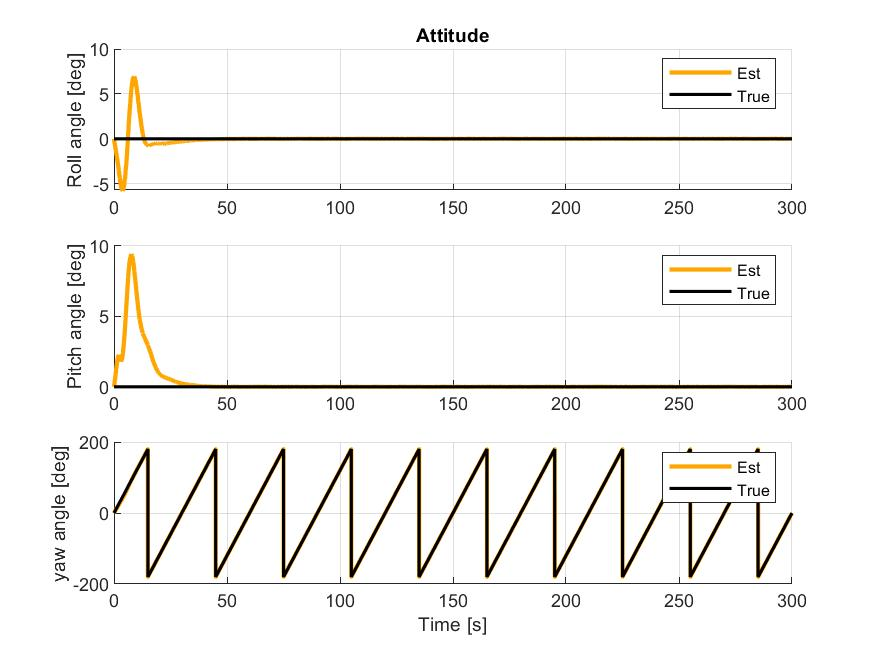
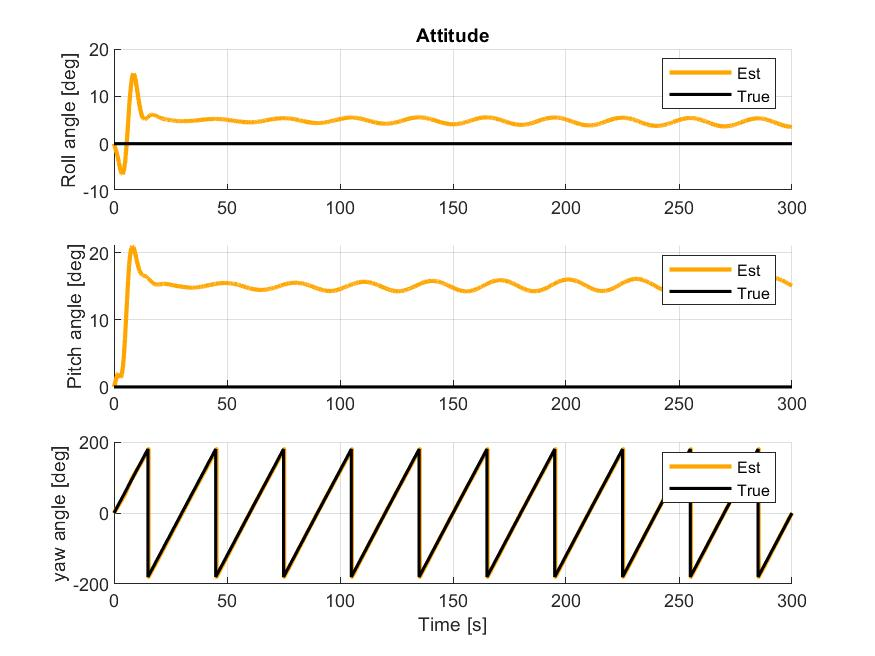
Tried to remove gravity as state from the eskf, but rank is only 14 and not 15. Hence the entire system still is not observable. Need more excitation

diff --git a/ESKF/ErrorStateKalman_sola.m b/ESKF/ErrorStateKalman_sola.m
@@ -1,4 +1,4 @@
-function [delta_x, E] = ErrorStateKalman2(E_prev,delta_y, R_nb, f_low, init, f_b_imu, omega_b_imu, g_n_nb, bacc_b_ins, bars_b_ins)
+function [delta_x, E] = ErrorStateKalman_sola(r_b_1, r_b_2,E_prev,delta_y, R_nb_hat, f_low, init, f_b_imu, omega_b_imu, g_n_nb, bacc_b_ins, bars_b_ins)
     
     deg2rad = pi/180;   
     
@@ -13,7 +13,7 @@ function [delta_x, E] = ErrorStateKalman2(E_prev,delta_y, R_nb, f_low, init, f_b
         R_pos = std_pos^2*I3;
         std_att = 10 * deg2rad;
         R_att = std_att^2*I3;
-        R = blkdiag(R_pos, R_att);
+        R = blkdiag(R_pos, R_pos);
 
         std_acc = 0.01 * sqrt(10);
         Q_acc = std_acc * std_acc * I3; 
@@ -36,51 +36,66 @@ function [delta_x, E] = ErrorStateKalman2(E_prev,delta_y, R_nb, f_low, init, f_b
 %                        1e-10 1e-10 1e-10 ...
 %                        1e-6 1e-6 1e-6]); 
                    
-       P_hat = diag([1e-1 * ones(1, 3) 1e-2 * ones(1, 3) 5e-2 * ones(1, 3) 1e-10 * ones(1, 3) 1e-6 * ones(1, 3) 1e-10 * ones(1, 3)]);  % Initial error covariance
+       P_hat = diag([1e-1 * ones(1, 3) 1e-2 * ones(1, 3) 5e-2 * ones(1, 3) 1e-10 * ones(1, 3) 1e-6 * ones(1, 3)]);  % Initial error covariance
 
        delta_x = 0;
 %        delta_q = 0;
        
     else
+%             
+%           A = [  Z3    I3        Z3                                   Z3       Z3    Z3    % dp
+%                  Z3    Z3     -R_nb    -R_nb*Smtrx(f_b_imu - bacc_b_ins)       Z3    I3    % dv
+%                  Z3    Z3        Z3                                   Z3       Z3    Z3    % dbacc
+%                  Z3    Z3        Z3      -Smtrx(omega_b_imu - bars_b_ins)     -I3    Z3    % dtheta ???????
+%                  Z3    Z3        Z3                                   Z3       Z3    Z3    % dbars
+%                  Z3    Z3        Z3                                   Z3       Z3    Z3] ; % dg
             
-          A = [  Z3    I3        Z3                                   Z3       Z3    Z3    % dp
-                 Z3    Z3     -R_nb    -R_nb*Smtrx(f_b_imu - bacc_b_ins)       Z3    I3    % dv
-                 Z3    Z3        Z3                                   Z3       Z3    Z3    % dbacc
-                 Z3    Z3        Z3      -Smtrx(omega_b_imu - bars_b_ins)     -I3    Z3    % dtheta ???????
-                 Z3    Z3        Z3                                   Z3       Z3    Z3    % dbars
-                 Z3    Z3        Z3                                   Z3       Z3    Z3] ; % dg
+          A = [  Z3    I3        Z3                                           Z3       Z3   % dp
+                 Z3    Z3     -R_nb_hat    -R_nb_hat*Smtrx(f_b_imu - bacc_b_ins)       Z3   % dv
+                 Z3    Z3        Z3                                           Z3       Z3   % dbacc
+                 Z3    Z3        Z3             -Smtrx(omega_b_imu - bars_b_ins)      -I3   % dtheta ???????
+                 Z3    Z3        Z3                                           Z3       Z3];   % dbars
+%                  Z3    Z3        Z3                                           Z3       Z3]; % dg
+             
             
  
           E = [      Z3      Z3    Z3   Z3
-                  -R_nb      Z3    Z3   Z3    % w_acc
+                  -R_nb_hat      Z3    Z3   Z3    % w_acc
                      Z3      I3    Z3   Z3    % w_acc_bias
                      Z3      Z3   -I3   Z3    % w_ars
-                     Z3      Z3    Z3   I3    % w_ars_bias
-                     Z3      Z3    Z3   Z3 ]; 
+                     Z3      Z3    Z3   I3];    % w_ars_bias
+%                      Z3      Z3    Z3   Z3 ]; 
 
           
           H = [ I3 Z3 Z3 Z3 Z3 Z3
-                Z3 Z3 Z3 I3 Z3 Z3];
+                I3 Z3 Z3 I3 Z3 Z3];
+            
+          H = [ I3 Z3 Z3 -Smtrx(R_nb_hat*r_b_1) Z3
+                I3 Z3 Z3 -Smtrx(R_nb_hat*r_b_2) Z3];
+               
+           
+         rank(obsv(A(1:15,1:15),H(:,1:15)))
+         
           
           % Discrete-time model
-          Ad = eye(18) + h * A;
+         Ad = eye(15) + h * A;
         
          % KF gain
          K = P_hat * H' / (H * P_hat * H' + R);
 
          % corrector 
          delta_x = K * delta_y;
-         P_hat = (eye(18)-K*H) * P_hat * (eye(18) - K*H)' + K*R*K';
+         P_hat = (eye(15)-K*H) * P_hat * (eye(15) - K*H)' + K*R*K';
          P_hat = (P_hat + P_hat')/2;
         
          % ESKF reset
          delta_theta = delta_x(10:12);
-         G = [ I3 Z3 Z3                            Z3 Z3 Z3 
-               Z3 I3 Z3                            Z3 Z3 Z3 
-               Z3 Z3 I3                            Z3 Z3 Z3 
-               Z3 Z3 Z3 (I3 - Smtrx(0.5*delta_theta)) Z3 Z3 
-               Z3 Z3 Z3                            Z3 I3 Z3 
-               Z3 Z3 Z3                            Z3 Z3 I3];
+         G = [ I3 Z3 Z3                            Z3 Z3 
+               Z3 I3 Z3                            Z3 Z3 
+               Z3 Z3 I3                            Z3 Z3 
+               Z3 Z3 Z3 (I3 - Smtrx(0.5*delta_theta)) Z3 
+               Z3 Z3 Z3                            Z3 I3]; 
+%                Z3 Z3 Z3                            Z3 Z3];
            
          P_hat = G * P_hat * G';
         

diff --git a/ESKF/MESKF_sola.m b/ESKF/MESKF_sola.m
@@ -40,13 +40,17 @@ g_err_data = zeros(3,N);
 [seed, p_n_nb, v_n_nb, q_nb, bacc_b_nb, bars_b_nb, f_b_imu, omega_b_imu,time, g_n_nb, v_abs] = CircleSim(simtime,f_samp,0);
 % [p_n_nb, v_n_nb, att_n_nb, f_b_imu, w_b_imu,time] = StandStillSim(simtime,f_samp,0);
 
+% dual gnss config
+r_b_1 = [0.5 0 0]';
+r_b_2 = [-0.5 0 0.3]';
+
 %initialization of kalman filter
 f_b_imu_0 = [0 0 0]';
 omega_b_imu_0 = [0 0 0]';
 bacc_b_ins = [0 0 0]';
 bars_b_ins = [0 0 0]';
-E_prev = zeros(18,12);
-ErrorStateKalman_sola(E_prev,0, 0, f_low, 1, f_b_imu_0, omega_b_imu_0, g_n_nb, bacc_b_ins, bars_b_ins);
+E_prev = zeros(15,12);
+ErrorStateKalman_sola(r_b_1, r_b_2, E_prev,0, 0, f_low, 1, f_b_imu_0, omega_b_imu_0, g_n_nb, bacc_b_ins, bars_b_ins);
 
 % init
 x_ins(1:3) = [5;6;7]; % for testing av ESKF
@@ -110,24 +114,49 @@ for k = 1:N
         % noisy measurements
         p_meas = p_n_nb(1:3,k) +  0.001 * wgn(3, 1, 1);
         q_meas = q_nb(1:4,k) + 0.00005 * wgn(4, 1, 1);
-
-        % delta y
-        delta_p = p_meas - p_n_ins; 
-
+        
         q_conj = quatconj(q_n_ins')';
         delta_q = quatprod(q_conj, q_meas);
         delta_theta = 2*delta_q(2:4);
         
-        delta_y = [delta_p; delta_theta];         
+        p_gnss_1 = p_n_nb(1:3,k) + I3*R_nb_ins*r_b_1 - Smtrx(R_nb_ins*r_b_1)*delta_theta;
+        p_gnss_2 = p_n_nb(1:3,k) + I3*R_nb_ins*r_b_2 - Smtrx(R_nb_ins*r_b_2)*delta_theta;
         
+        R_nb_t = Rquat(q_nb(1:4,k)');
+        
+        p_gnss_1 = p_n_nb(1:3,k) + R_nb_t * r_b_1;
+        p_gnss_2 = p_n_nb(1:3,k) + R_nb_t * r_b_2;
+%         p_gnss_3 = p_n_nb(1:3,k) + R_nb_t * r_b_3;
+        
+        
+        p_hat_1 = p_n_ins + R_nb_ins * r_b_1;
+        p_hat_2 = p_n_ins + R_nb_ins * r_b_2;
+%         p_hat_3 = p_n_ins + R_nb_ins * r_b_3;
+        
+        
+%         delta_y = [(p_gnss_1 - p_hat_1) ; (p_gnss_2 - p_hat_2); (p_gnss_3 - p_hat_3); delta_theta]; 
+        delta_y = [(p_gnss_1 - p_hat_1) ; (p_gnss_2 - p_hat_2)];
         % compute error state with ESKF
-        [delta_x, E_prev] = ErrorStateKalman_sola(E_prev, delta_y, R_nb_ins, f_low, 0, f_b_imu, omega_b_imu, g_n_nb, bacc_b_ins, bars_b_ins);
-        
+        [delta_x, E_prev] = ErrorStateKalman_sola(r_b_1, r_b_2, E_prev, delta_y, R_nb_ins, f_low, 0, f_b_imu, omega_b_imu, g_n_nb, bacc_b_ins, bars_b_ins);
+
+% 
+%         % delta y
+%         delta_p = p_meas - p_n_ins; 
+% 
+%         q_conj = quatconj(q_n_ins')';
+%         delta_q = quatprod(q_conj, q_meas);
+%         delta_theta = 2*delta_q(2:4);
+%         
+%         delta_y = [delta_p; delta_theta];         
+%         
+%         % compute error state with ESKF
+%         [delta_x, E_prev] = ErrorStateKalman_sola(E_prev, delta_y, R_nb_ins, f_low, 0, f_b_imu, omega_b_imu, g_n_nb, bacc_b_ins, bars_b_ins);
+%         
         % inject error into nominal state
         x_ins(1:9) = x_ins(1:9) + delta_x(1:9);
         x_ins(14:16) = x_ins(14:16) + delta_x(13:15);
         
-        g_n_nb = g_n_nb + delta_x(16:18);
+%         g_n_nb = g_n_nb + delta_x(16:18);
         
         h_low = 1/10;
         q_delta_omega = qbuild(delta_x(10:12)/h_low, h_low);
